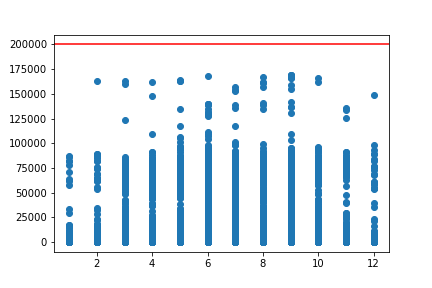
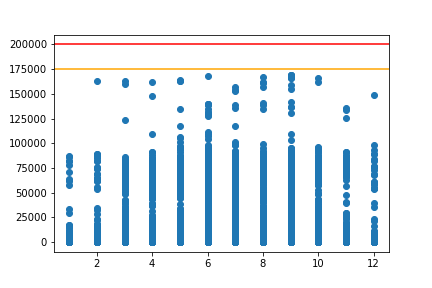
rewrite figs to use fig,ax=plt.subplots() format

Changed region(s): [[0.1204, 0.2188, 0.9028, 0.25]]

diff --git a/code/analysis_and_viz/experiments.py b/code/analysis_and_viz/experiments.py
@@ -23,40 +23,40 @@ trips_cln["Duration"].describe()
 
 
 # plot histograms of ride durations
-plt.figure()
-plt.hist(trips_cln["Duration"], bins=100)
-plt.xlabel("Trip Duration")
-plt.title("Frequency of Ride Durations, All Trips")
-plt.savefig(os.path.join("visualizations", "rides_hist.png"))
+fig, ax = plt.subplots()
+ax.hist(trips_cln["Duration"]/60, bins=100)
+ax.set_xlabel("Trip Duration (min)")
+ax.set_title("Frequency of Ride Durations, All Trips")
+fig.savefig(os.path.join("visualizations", "rides_hist.png"))
 
 # all rides together isn't a v helpful graphic; break up by length of rides
-x0 = trips_cln[ trips_cln["Duration"] <= 3600 ]["Duration"]
-plt.figure()
-plt.hist(x0, bins=100)
-plt.xlabel("Trip Duration")
-plt.title("Frequency of Trip Duration, Short Trips (< 1 hr)")
-plt.savefig(os.path.join("visualizations", "very_short_rides.png"))
+x0 = trips_cln[ trips_cln["Duration"] <= 3600 ]["Duration"]/60
+fig, ax = plt.subplots()
+ax.hist(x0, bins=100)
+ax.set_xlabel("Trip Duration (min)")
+ax.set_title("Frequency of Trip Duration, Short Trips (< 1 hr)")
+fig.savefig(os.path.join("visualizations", "very_short_rides.png"))
 
-x1 = trips_cln[ trips_cln["Duration"] <= 7200 ]["Duration"]
-plt.figure()
-plt.hist(x1, bins=100)
-plt.xlabel("Trip Duration")
-plt.title("Frequency of Trip Durations, Short Trips (<= 2 hrs)")
-plt.savefig(os.path.join("visualizations", "short_rides.png"))
+x1 = trips_cln[ trips_cln["Duration"] <= 7200 ]["Duration"]/60
+fig, ax = plt.subplots()
+ax.hist(x1, bins=100)
+ax.set_xlabel("Trip Duration (min)")
+ax.set_title("Frequency of Trip Durations, Short Trips (<= 2 hrs)")
+fig.savefig(os.path.join("visualizations", "short_rides.png"))
 
-x2 = trips_cln[ trips_cln["Duration"] > 7200 ]["Duration"]
-plt.figure()
-plt.hist(x2, bins=100)
-plt.xlabel("Trip Duration")
-plt.title("Frequency of Trip Durations, Short Trips(> 2 hrs)")
-plt.savefig(os.path.join("visualizations", "long_rides.png"))
+x2 = trips_cln[ trips_cln["Duration"] > 7200 ]["Duration"]/60
+fig, ax = plt.subplots()
+ax.hist(x2, bins=100)
+ax.set_xlabel("Trip Duration (min)")
+ax.set_title("Frequency of Trip Durations, Long Trips(> 2 hrs)")
+fig.savefig(os.path.join("visualizations", "long_rides.png"))
 
-x3 = trips_cln[ trips_cln["Duration"] > 86400 ]["Duration"]
-plt.figure()
-plt.hist(x3, bins=100)
-plt.xlabel("Trip Duration")
-plt.title("Frequency of Trip Durations, Very Long Trips (> 24 hrs)")
-plt.savefig(os.path.join("visualizations", "v_long_rides.png"))
+x3 = trips_cln[ trips_cln["Duration"] > 86400 ]["Duration"]/60
+fig, ax = plt.subplots()
+ax.hist(x3, bins=100)
+ax.set_xlabel("Trip Duration (min)")
+ax.set_title("Frequency of Trip Durations, Very Long Trips (> 24 hrs)")
+fig.savefig(os.path.join("visualizations", "v_long_rides.png"))
 
 
 
@@ -67,14 +67,17 @@ trips_by_month = trips_cln.groupby(["Start Yr-Mon"])["Start Yr-Mon"].size()
 
 x = trips_by_month.index
 y = trips_by_month
-plt.figure()
-plt.plot(x,y)
-plt.scatter(x,y)
-plt.gca().xaxis.grid(True)
-plt.xlabel("Month")
-plt.ylabel("Number of Trips")
-plt.xticks(np.arange(1,100,step=6),rotation = 90)
-plt.title("Total Trips by Month")
+labels = trips_by_month.index[np.arange(1,100,6)]
+
+fig, ax = plt.subplots()
+ax.plot(x,y)
+ax.scatter(x,y)
+ax.set_xticks(np.arange(1,100,step=6))
+ax.set_xticklabels(labels, rotation=90)
+ax.xaxis.grid(True)
+ax.set_xlabel("Month")
+ax.set_ylabel("Number of Trips")
+ax.set_title("Total Trips by Month")
 plt.savefig(os.path.join("visualizations", "rides_per_month.png"), bbox_inches="tight")
 
 
@@ -86,15 +89,15 @@ x = trips_type[ trips_type["Rider Type"] == "CASUAL"]["Start Yr-Mon"]
 y_cas = trips_type[ trips_type["Rider Type"] == "CASUAL"]["Duration"]
 y_mem = trips_type[ trips_type["Rider Type"] == "MEMBER"]["Duration"]
 
-plt.figure()
-plt.plot(x, y_cas, label="Casual")
-plt.plot(x, y_mem, label="Member")
-plt.xticks(rotation = 90)
-plt.legend(loc="upper left")
-plt.xlabel("Month")
-plt.ylabel("Number of Trips")
-plt.title("Number of Trips per Month, by Customer Type")
-plt.savefig(os.path.join("visualizations", "rides_by_month_and_ridertype.png"), bbox_inches="tight")
+fig, ax = plt.subplots()
+ax.plot(x, y_cas, label="Casual")
+ax.plot(x, y_mem, label="Member")
+ax.set_xticklabels(x, rotation=90)
+ax.legend(loc="upper left")
+ax.set_xlabel("Month")
+ax.set_ylabel("Number of Trips")
+ax.set_title("Number of Trips per Month, by Customer Type")
+fig.savefig(os.path.join("visualizations", "rides_by_month_and_ridertype.png"), bbox_inches="tight")
 
 
 
@@ -111,11 +114,11 @@ rentals = trips_loc["size"]
 fig, ax = plt.subplots(figsize=(5,10))
 ax.barh(stns, rentals)
 ax.invert_yaxis()
+ax.set_xlabel("Number of Trips")
+ax.set_ylabel("Start Station Name")
 plt.yticks(fontsize=8)
-plt.xlabel("Number of Trips")
-plt.ylabel("Start Station Name")
-plt.title("Number of Trips by Starting Station, September 2023")
-plt.savefig(os.path.join("visualizations", "rides_by_loc_sept23.png"), bbox_inches='tight')
+ax.set_title("Number of Trips by Starting Station, September 2023")
+fig.savefig(os.path.join("visualizations", "rides_by_loc_sept23.png"), bbox_inches='tight')
 
 # avg ride duration by location (pogoh only)
 trips_loc_dur = trips_sept23.groupby("Start Station Name", 
@@ -128,11 +131,11 @@ trips_loc_dur[["mean", "median"]] = trips_loc_dur[["mean", "median"]]/60
 fig, ax = plt.subplots(figsize=(5,10))
 ax.barh(trips_loc_dur["Start Station Name"], trips_loc_dur["mean"])
 ax.invert_yaxis()
+ax.set_xlabel("Mean Trip Duration (min)")
+ax.set_ylabel("Start Station Name")
 plt.yticks(fontsize=8)
-plt.xlabel("Mean Trip Duration")
-plt.ylabel("Start Station Name")
-plt.title("Mean Duration of Trip by Starting Station, September 2023")
-plt.savefig(os.path.join("visualizations", "ride_dur_by_loc_sept23.png"))
+ax.set_title("Mean Duration of Trip by Starting Station, September 2023")
+plt.savefig(os.path.join("visualizations", "ride_dur_by_loc_sept23.png"), bbox_inches="tight")
 
 
 
@@ -140,28 +143,29 @@ plt.savefig(os.path.join("visualizations", "ride_dur_by_loc_sept23.png"))
 stns_by_month = pd.read_csv(os.path.join("data", "processed", "stations_by_month.csv"))
 stns_by_month = stns_by_month.rename(columns = {"Unnamed: 0":"Date"})
 
-plt.figure()
-plt.plot(stns_by_month["Date"], stns_by_month["Station Count"])
-plt.xlabel("Month")
-plt.ylabel("Total Number of Stations")
-plt.xticks(np.arange(1,100,step=6),rotation = 90)
-plt.title("Total Trips by Month")
-plt.savefig(os.path.join("visualizations", "stations_by_month.png"))
+labels = stns_by_month["Date"][np.arange(1,100,6)]
 
-plt.figure()
-plt.plot(stns_by_month["Date"], stns_by_month["Total Docks"])
-plt.xlabel("Month")
-plt.ylabel("Total Number of Docks")
-plt.xticks(np.arange(1,100,step=6), rotation=90)
-plt.savefig(os.path.join("visualizations", "docks_by_month.png"))
+fig, ax = plt.subplots()
+ax.plot(stns_by_month["Date"], stns_by_month["Station Count"])
+ax.set_xlabel("Month")
+ax.set_ylabel("Total Number of Stations")
+ax.set_xticks(np.arange(1,100,step=6))
+ax.set_xticklabels(labels, rotation=90)
+ax.set_title("Total Stations by Month")
+plt.savefig(os.path.join("visualizations", "stations_by_month.png"), bbox_inches="tight")
+
+fig, ax = plt.subplots()
+ax.plot(stns_by_month["Date"], stns_by_month["Total Docks"])
+ax.set_xlabel("Month")
+ax.set_ylabel("Total Number of Docks")
+ax.set_xticks(np.arange(1,100,step=6))
+ax.set_xticklabels(labels, rotation=90)
+ax.set_title("Total Bike Docks by Month")
+plt.savefig(os.path.join("visualizations", "docks_by_month.png"), bbox_inches="tight")
 
 
 
 # trips and stations by month
-plt.figure()
-plt.plot(stns_by_month["Date"], stns_by_month["Station Count"])
-plt.plot(stns_by_month["Date"], trips_by_month)
-
 fig, ax1 = plt.subplots()
 ax2 = ax1.twinx()
 ax1.plot(stns_by_month["Date"], stns_by_month["Station Count"], color="orange")

diff --git a/code/data/3-prep.py b/code/data/3-prep.py
@@ -58,16 +58,17 @@ for yr in range(2015, 2024):
     x = trips[ trips["Start Year"] == yr ]["Start Month"]
     y = trips[ trips["Start Year"] == yr ]["Duration"]
     
-    plt.figure()
-    plt.scatter(x,y)
-    plt.axhline(y=200000, color="r")
-    plt.savefig(os.path.join(dirpath, "visualizations", filename))  
+    fig, ax = plt.subplots()
+    ax.scatter(x,y)
+    ax.axhline(y=200000, color="r")
+    ax.axhline(y=175000, color="orange")
+    fig.savefig(os.path.join(dirpath, "visualizations", filename))  
 
 # 200K looks like a good max cutoff?
 # no, 175K better
-plt.figure()
-plt.hist(trips[trips["Duration"] > 175000]["Duration"], bins=100)
-plt.savefig(os.path.join("visualizations", "rides_over_175K.png"))
+fig, ax = plt.subplots()
+ax.hist(trips[trips["Duration"] > 175000]["Duration"], bins=100)
+fig.savefig(os.path.join("visualizations", "rides_over_175K.png"))
 
 drop_index = trips[ trips["Duration"] > 175000 ].index
 trips_cln = trips.drop(drop_index)
